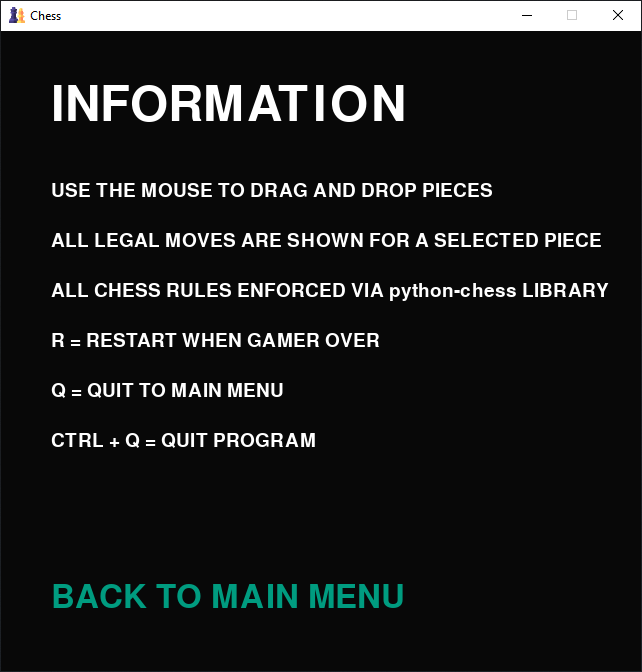
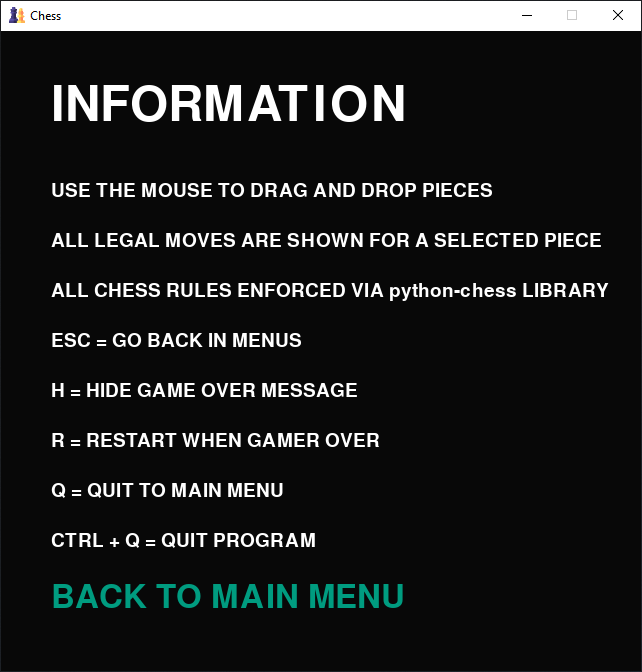
minor chess updates

diff --git a/chess/main.py b/chess/main.py
@@ -67,11 +67,13 @@ def createInfoMenu():
     lineTwo = "USE THE MOUSE TO DRAG AND DROP PIECES"
     lineThree = "ALL LEGAL MOVES ARE SHOWN FOR A SELECTED PIECE"
     lineFour = "ALL CHESS RULES ENFORCED VIA python-chess LIBRARY"
-    lineFive = "R = RESTART WHEN GAMER OVER"
-    lineSix = "Q = QUIT TO MAIN MENU"
-    lineSeven = "CTRL + Q = QUIT PROGRAM"
-    lineEight = "BACK TO MAIN MENU"
-# hold down h to hide game over menu and add to info screen
+    lineFive = "ESC = GO BACK IN MENUS"
+    lineSix = "H = HIDE GAME OVER MESSAGE"
+    lineSeven = "R = RESTART WHEN GAMER OVER"
+    lineEight = "Q = QUIT TO MAIN MENU"
+    lineNine = "CTRL + Q = QUIT PROGRAM"
+    lineTen = "BACK TO MAIN MENU"
+
     infoMenu = pygame.Surface((windowSize, windowSize))
     infoMenu.fill(menuWindowBg)
     infoMenu.blit(fontOne.render(lineOne, True, textColour), (50, 50))
@@ -81,7 +83,9 @@ def createInfoMenu():
     infoMenu.blit(fontTwo.render(lineFive, True, textColour), (50, 300))
     infoMenu.blit(fontTwo.render(lineSix, True, textColour), (50, 350))
     infoMenu.blit(fontTwo.render(lineSeven, True, textColour), (50, 400))
-    infoMenu.blit(fontThree.render(lineEight, True, selectedTextColour), (50, 550))
+    infoMenu.blit(fontTwo.render(lineEight, True, textColour), (50, 450))
+    infoMenu.blit(fontTwo.render(lineNine, True, textColour), (50, 500))
+    infoMenu.blit(fontThree.render(lineTen, True, selectedTextColour), (50, 550))
 
     return infoMenu
 
@@ -94,7 +98,7 @@ def createGameOverMenu():
 
     one = pygame.Surface((gameOverWidth, gameOverHeight))
     one.fill(menuWindowBg)
-    one.blit(rematchTextSelected, rematchText.get_rect(center=(gameOverWidth/2, gameOverHeight-85)))
+    one.blit(rematchTextSelected, rematchTextSelected.get_rect(center=(gameOverWidth/2, gameOverHeight-85)))
     one.blit(quitText, quitText.get_rect(center=(gameOverWidth/2, gameOverHeight-35)))
     one.blit(piecePNGs["K"], (gameOverWidth/2-piecesSize-50, 0))
     one.blit(piecePNGs["k"], (gameOverWidth/2+50, 0))
@@ -102,138 +106,11 @@ def createGameOverMenu():
     two = pygame.Surface((gameOverWidth, gameOverHeight))
     two.fill(menuWindowBg)
     two.blit(rematchText, rematchText.get_rect(center=(gameOverWidth/2, gameOverHeight-85)))
-    two.blit(quitTextSelected, quitText.get_rect(center=(gameOverWidth/2, gameOverHeight-35)))
+    two.blit(quitTextSelected, quitTextSelected.get_rect(center=(gameOverWidth/2, gameOverHeight-35)))
     two.blit(piecePNGs["K"], (gameOverWidth/2-piecesSize-50, 0))
     two.blit(piecePNGs["k"], (gameOverWidth/2+50, 0))
 
     return [one, two]
-
-
-def getSelectedPieceAndPosition():
-    pieceGridPosition = getGridPositionFromCoords(pygame.mouse.get_pos())
-    piece = chessBoard.piece_at(pieceGridPosition)
-    if piece == None:
-        pieceSymbol = None
-    else:
-        if piece.color == chessBoard.turn:
-            pieceSymbol = piece.symbol()
-        else:
-            pieceSymbol = None
-
-    return pieceSymbol, pieceGridPosition,
-
-
-def executeNextMove():
-    newGridPosition = getGridPositionFromCoords(pygame.mouse.get_pos())
-
-    try:
-        chessBoard.find_move(selectedPieceGridPosition, newGridPosition)
-    except ValueError:  # Illegal move
-        return False
-
-    if (selectedPiece == "P" and int(newGridPosition / 8) == 7) or (selectedPiece == "p" and int(newGridPosition / 8) == 0):
-        chessBoard.push(chess.Move(selectedPieceGridPosition, newGridPosition, getPawnPromotionChoice(newGridPosition)))
-    else:
-        chessBoard.push(chess.Move(selectedPieceGridPosition, newGridPosition))
-
-    global previousMovesFrom, previousMovesTo, previousMovePiece
-    previousMovesFrom.append(selectedPieceGridPosition)
-    previousMovesTo.append(newGridPosition)
-    previousMovePiece = chessBoard.piece_at(previousMovesTo[-1]).symbol()
-
-    return True
-
-
-def getPawnPromotionChoice(newGridPosition):
-    x = squareSize * (newGridPosition % 8) + piecePadding
-    if chessBoard.turn == chess.WHITE:
-        pygame.draw.rect(window, pawnPromotionBg, (x - piecePadding, windowSize - squareSize*4, squareSize, squareSize*4))
-        window.blit(piecePNGs["Q"], (x, windowSize + piecePadding - squareSize * 1))
-        window.blit(piecePNGs["N"], (x, windowSize + piecePadding - squareSize * 2))
-        window.blit(piecePNGs["R"], (x, windowSize + piecePadding - squareSize * 3))
-        window.blit(piecePNGs["B"], (x, windowSize + piecePadding - squareSize * 4))
-    else:
-        pygame.draw.rect(window, pawnPromotionBg, (x - piecePadding, 0, squareSize, squareSize*4))
-        window.blit(piecePNGs["q"], (x, piecePadding + squareSize * 0))
-        window.blit(piecePNGs["n"], (x, piecePadding + squareSize * 1))
-        window.blit(piecePNGs["r"], (x, piecePadding + squareSize * 2))
-        window.blit(piecePNGs["b"], (x, piecePadding + squareSize * 3))
-
-    pygame.display.update()
-
-    while True:
-        for event in pygame.event.get():
-            if event.type == pygame.QUIT:
-                pygame.display.quit()
-                sys.exit()
-            elif event.type == pygame.KEYDOWN:
-                if event.key == pygame.K_q and pygame.key.get_mods() & pygame.KMOD_CTRL:
-                    pygame.display.quit()
-                    sys.exit()
-            elif event.type == pygame.MOUSEBUTTONUP and event.button == 1:
-                x = int(pygame.mouse.get_pos()[0] / squareSize)
-                y = int(pygame.mouse.get_pos()[1] / squareSize)
-                if x == (newGridPosition % 8):
-                    if chessBoard.turn == chess.WHITE:
-                        if y == 7:
-                            return chess.QUEEN
-                        elif y == 6:
-                            return chess.KNIGHT
-                        elif y == 5:
-                            return chess.ROOK
-                        elif y == 4:
-                            return chess.BISHOP
-                    else:
-                        if y == 0:
-                            return chess.QUEEN
-                        elif y == 1:
-                            return chess.KNIGHT
-                        elif y == 2:
-                            return chess.ROOK
-                        elif y == 3:
-                            return chess.BISHOP
-
-
-def undoMove():
-    global previousMovesFrom, previousMovesTo, previousMovePiece
-
-    try:
-        chessBoard.pop()
-        previousMovesFrom.pop()
-        previousMovesTo.pop()
-        previousMovePiece = chessBoard.piece_at(previousMovesTo[-1]).symbol()
-    except IndexError:  # No moves to undo
-        pass
-
-
-def displayBoard():
-    window.blit(blankBoard, (0, 0))
-    for i in range(64):
-        if chessBoard.piece_at(i) != None:
-            window.blit(piecePNGs[chessBoard.piece_at(i).symbol()], getCoordsFromGridPosition(i, piecePadding))
-
-    if previousMovesFrom and previousMovesTo:
-        pygame.draw.rect(window, previousMoveFromColour, getRectFromGridPosition(previousMovesFrom[-1]))
-        pygame.draw.rect(window, previousMoveToColour, getRectFromGridPosition(previousMovesTo[-1]))
-        window.blit(piecePNGs[previousMovePiece], getCoordsFromGridPosition(previousMovesTo[-1], piecePadding))
-
-    if chessBoard.is_check():
-        kingLocation = chessBoard.king(chessBoard.turn)
-        pygame.draw.rect(window, kingInCheckColour, getRectFromGridPosition(kingLocation))
-        window.blit(piecePNGs[chessBoard.piece_at(kingLocation).symbol()], getCoordsFromGridPosition(kingLocation, piecePadding))
-
-    if mouseButtonDown and selectedPiece != None:
-        pygame.draw.rect(window, pieceSelectedColour, getRectFromGridPosition(selectedPieceGridPosition))
-        tempSurface = pygame.Surface((windowSize, windowSize), pygame.SRCALPHA)
-        for move in list(chessBoard.legal_moves):
-            if move.from_square == selectedPieceGridPosition:
-                if (chessBoard.color_at(move.to_square) == chess.BLACK and chessBoard.turn == chess.WHITE) or (chessBoard.color_at(move.to_square) == chess.WHITE and chessBoard.turn == chess.BLACK):
-                    pygame.draw.circle(tempSurface, legalMoveCaptureColour, getCoordsFromGridPosition(move.to_square, squareSize/2), legalMoveCaptureRadius, legalMoveCaptureWidth)
-                else:
-                    pygame.draw.circle(tempSurface, legalMoveColour, getCoordsFromGridPosition(move.to_square, squareSize/2), legalMoveRadius)
-        window.blit(tempSurface, (0, 0))
-        mousePos = pygame.mouse.get_pos()
-        window.blit(piecePNGs[selectedPiece], (mousePos[0]-piecesSize/2, mousePos[1]-piecesSize/2))
 
 
 def displayMainMenu():
@@ -368,7 +245,6 @@ def displayGameOverMenu():
         blackScore += 1
 
     score = pygame.font.SysFont(mainFont, 72).render(f"{whiteScore}-{blackScore}", True, textColour)
-    hideMenu = False
     currentSelection = 0
     while True:
         for event in pygame.event.get():
@@ -414,6 +290,133 @@ def displayGameOverMenu():
             displayBoard()
 
         pygame.display.update()
+
+
+def getSelectedPieceAndPosition():
+    pieceGridPosition = getGridPositionFromCoords(pygame.mouse.get_pos())
+    piece = chessBoard.piece_at(pieceGridPosition)
+    if piece == None:
+        pieceSymbol = None
+    else:
+        if piece.color == chessBoard.turn:
+            pieceSymbol = piece.symbol()
+        else:
+            pieceSymbol = None
+
+    return pieceSymbol, pieceGridPosition,
+
+
+def executeNextMove():
+    newGridPosition = getGridPositionFromCoords(pygame.mouse.get_pos())
+
+    try:
+        chessBoard.find_move(selectedPieceGridPosition, newGridPosition)
+    except ValueError:  # Illegal move
+        return False
+
+    if (selectedPiece == "P" and int(newGridPosition / 8) == 7) or (selectedPiece == "p" and int(newGridPosition / 8) == 0):
+        chessBoard.push(chess.Move(selectedPieceGridPosition, newGridPosition, getPawnPromotionChoice(newGridPosition)))
+    else:
+        chessBoard.push(chess.Move(selectedPieceGridPosition, newGridPosition))
+
+    global previousMovesFrom, previousMovesTo, previousMovePiece
+    previousMovesFrom.append(selectedPieceGridPosition)
+    previousMovesTo.append(newGridPosition)
+    previousMovePiece = chessBoard.piece_at(previousMovesTo[-1]).symbol()
+
+    return True
+
+
+def getPawnPromotionChoice(newGridPosition):
+    x = squareSize * (newGridPosition % 8) + piecePadding
+    if chessBoard.turn == chess.WHITE:
+        pygame.draw.rect(window, pawnPromotionBg, (x - piecePadding, windowSize - squareSize*4, squareSize, squareSize*4))
+        window.blit(piecePNGs["Q"], (x, windowSize + piecePadding - squareSize * 1))
+        window.blit(piecePNGs["N"], (x, windowSize + piecePadding - squareSize * 2))
+        window.blit(piecePNGs["R"], (x, windowSize + piecePadding - squareSize * 3))
+        window.blit(piecePNGs["B"], (x, windowSize + piecePadding - squareSize * 4))
+    else:
+        pygame.draw.rect(window, pawnPromotionBg, (x - piecePadding, 0, squareSize, squareSize*4))
+        window.blit(piecePNGs["q"], (x, piecePadding + squareSize * 0))
+        window.blit(piecePNGs["n"], (x, piecePadding + squareSize * 1))
+        window.blit(piecePNGs["r"], (x, piecePadding + squareSize * 2))
+        window.blit(piecePNGs["b"], (x, piecePadding + squareSize * 3))
+
+    pygame.display.update()
+
+    while True:
+        for event in pygame.event.get():
+            if event.type == pygame.QUIT:
+                pygame.display.quit()
+                sys.exit()
+            elif event.type == pygame.KEYDOWN:
+                if event.key == pygame.K_q and pygame.key.get_mods() & pygame.KMOD_CTRL:
+                    pygame.display.quit()
+                    sys.exit()
+            elif event.type == pygame.MOUSEBUTTONUP and event.button == 1:
+                x = int(pygame.mouse.get_pos()[0] / squareSize)
+                y = int(pygame.mouse.get_pos()[1] / squareSize)
+                if x == (newGridPosition % 8):
+                    if chessBoard.turn == chess.WHITE:
+                        if y == 7:
+                            return chess.QUEEN
+                        elif y == 6:
+                            return chess.KNIGHT
+                        elif y == 5:
+                            return chess.ROOK
+                        elif y == 4:
+                            return chess.BISHOP
+                    else:
+                        if y == 0:
+                            return chess.QUEEN
+                        elif y == 1:
+                            return chess.KNIGHT
+                        elif y == 2:
+                            return chess.ROOK
+                        elif y == 3:
+                            return chess.BISHOP
+
+
+def undoMove():
+    global previousMovesFrom, previousMovesTo, previousMovePiece
+
+    try:
+        chessBoard.pop()
+        previousMovesFrom.pop()
+        previousMovesTo.pop()
+        previousMovePiece = chessBoard.piece_at(previousMovesTo[-1]).symbol()
+    except IndexError:  # No moves to undo
+        pass
+
+
+def displayBoard():
+    window.blit(blankBoard, (0, 0))
+    for i in range(64):
+        if chessBoard.piece_at(i) != None:
+            window.blit(piecePNGs[chessBoard.piece_at(i).symbol()], getCoordsFromGridPosition(i, piecePadding))
+
+    if previousMovesFrom and previousMovesTo:
+        pygame.draw.rect(window, previousMoveFromColour, getRectFromGridPosition(previousMovesFrom[-1]))
+        pygame.draw.rect(window, previousMoveToColour, getRectFromGridPosition(previousMovesTo[-1]))
+        window.blit(piecePNGs[previousMovePiece], getCoordsFromGridPosition(previousMovesTo[-1], piecePadding))
+
+    if chessBoard.is_check():
+        kingLocation = chessBoard.king(chessBoard.turn)
+        pygame.draw.rect(window, kingInCheckColour, getRectFromGridPosition(kingLocation))
+        window.blit(piecePNGs[chessBoard.piece_at(kingLocation).symbol()], getCoordsFromGridPosition(kingLocation, piecePadding))
+
+    if mouseButtonDown and selectedPiece != None:
+        pygame.draw.rect(window, pieceSelectedColour, getRectFromGridPosition(selectedPieceGridPosition))
+        tempSurface = pygame.Surface((windowSize, windowSize), pygame.SRCALPHA)
+        for move in list(chessBoard.legal_moves):
+            if move.from_square == selectedPieceGridPosition:
+                if (chessBoard.color_at(move.to_square) == chess.BLACK and chessBoard.turn == chess.WHITE) or (chessBoard.color_at(move.to_square) == chess.WHITE and chessBoard.turn == chess.BLACK):
+                    pygame.draw.circle(tempSurface, legalMoveCaptureColour, getCoordsFromGridPosition(move.to_square, squareSize/2), legalMoveCaptureRadius, legalMoveCaptureWidth)
+                else:
+                    pygame.draw.circle(tempSurface, legalMoveColour, getCoordsFromGridPosition(move.to_square, squareSize/2), legalMoveRadius)
+        window.blit(tempSurface, (0, 0))
+        mousePos = pygame.mouse.get_pos()
+        window.blit(piecePNGs[selectedPiece], (mousePos[0]-piecesSize/2, mousePos[1]-piecesSize/2))
 
 
 def getNextMoveFromUser():
@@ -556,6 +559,7 @@ if __name__ == "__main__":
         previousMovePiece = None
 
         chessBoard = chess.Board()
+
         goImmediatelyToMainMenu = False
         while chessBoard.outcome() == None and not goImmediatelyToMainMenu:
             displayBoard()
